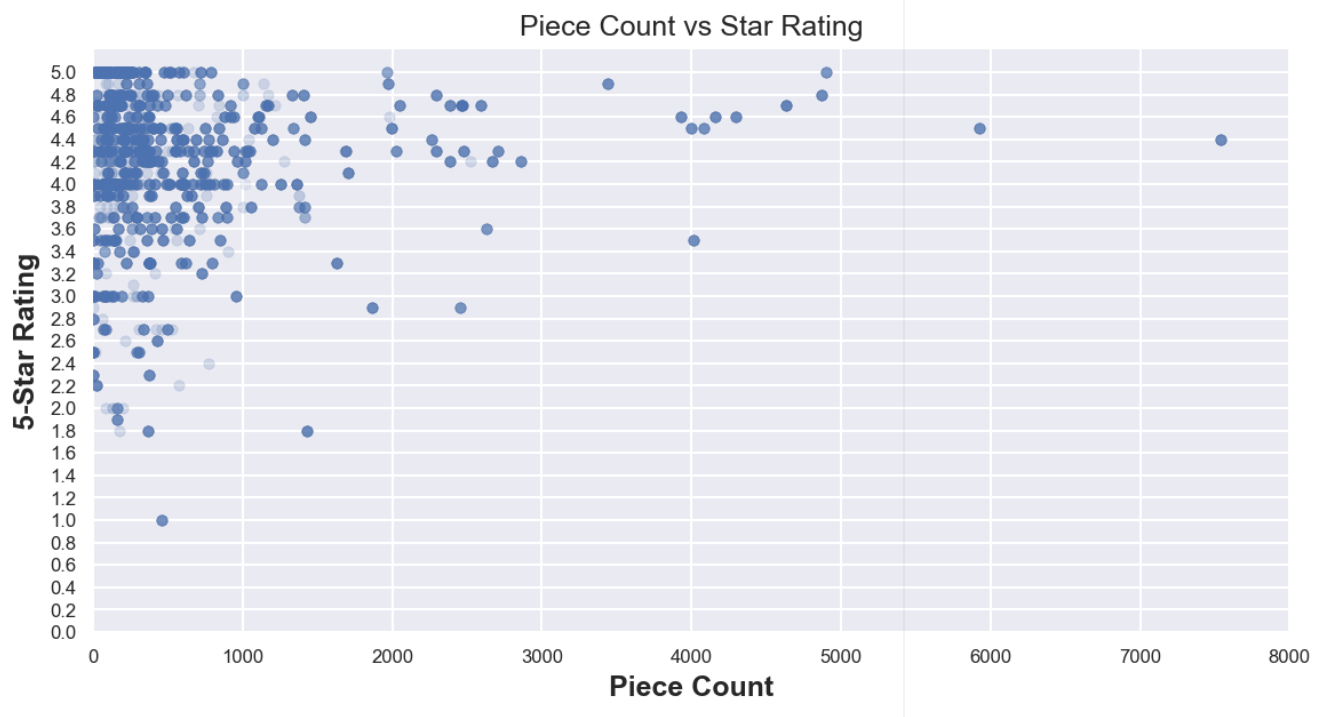
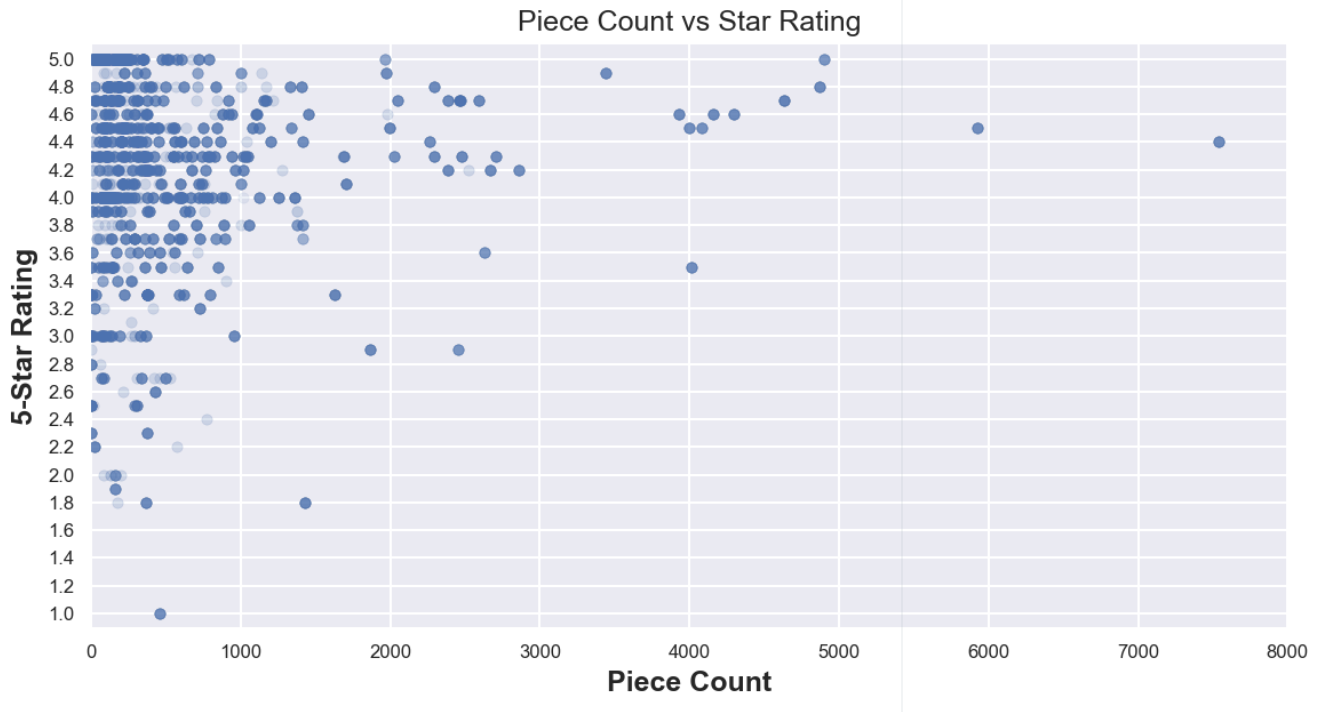
Graph info and Conclusion

diff --git a/main.py b/main.py
@@ -100,17 +100,19 @@ class mains():
     plt.title("Piece Count vs Star Rating")
     plt.xlabel('Piece Count')
     plt.xlim(0,8000)
-    plt.yticks(np.arange(0, 5.1, step=0.2))
+    plt.yticks(np.arange(1, 5.1, step=0.2))
+    plt.ylim(.9,5.1)
     plt.ylabel('5-Star Rating')
     plt.show()
 
     # %% codecell
     #Graph 4.5 - Piece Count (Under 1000) Vs. Star Rating
     data.plot(kind='scatter',x='piece_count',y='val_star_rating',figsize=(9,4.5), alpha = 0.1)
-    plt.title("Piece Count vs Star Rating")
+    plt.title("Piece Count vs Star Rating Under 1000 Pieces")
     plt.xlabel('Piece Count')
     plt.xlim(0,1000)
-    plt.yticks(np.arange(0, 5.1, step=0.2))
+    plt.ylim(.9,5.1)
+    plt.yticks(np.arange(1, 5.1, step=0.2))
     plt.ylabel('5-Star Rating')
     plt.show()
 

diff --git a/README.md b/README.md
@@ -15,24 +15,46 @@ The second dataset, found [here](https://www.kaggle.com/mterzolo/lego-sets), had
 #### Graph 1: Frequency of the Star Ratings
 ![Graph 1](./Images/Graph1.png)
 
+To start off we wanted to observe how many of each star rating we had. To prevent clutter, we decide to show it in intervals of 0.2 in a bar graph. Notable observations are that a vast majority of reviews are above a 4.0 meaning that reviewers are generally very generous with their ratings.
+
 #### Graph 2: Review Difficulty vs. Average Star Ratings
 ![Graph 2](./Images/Graph2.png)
 
 For this graph we decided to see how the review difficulty of a LEGO set influences its overall star rating. To properly illustrate this, we decided to create a box and whisker plot because it not only shows the median and quartiles, but it also shows if there are any outliers.
 
+Some notable observations are that while the Easy, Average, and Challenging columns are nearly identical, the Very Easy column seems to have a significantly lower 25th percentile and mean. Therefore we can conclude that the Very Easy difficulty generally has lower ratings.
+
+A quirk of the Box and Whisker plot is observable in the Very Challenging column. The Very Challenging column only has 5 star ratings and is therefore just a line.
+
 #### Graph 3: List Price Vs. Star Rating
 ![Graph 3](./Images/Graph3.png)
+
+Graph 3 compares the price of each LEGO set to it's price on the LEGO marketplace. While hard to interpret in the lower price region, there's a clear correlation that expensive sets ($600+) receive overall lower star ratings. This is most likely because when people spend more money they have higher expectations.
+
+To better view the cluster of points in the under $150 range we made a second scatter plot that only lists sets under $150.
+
 ![Graph 3.5](./Images/Graph3_5.png)
+
+Even though it is more spread out and easier to read, there is no clear correlation between list price and the star ratings for sets under $150. We believe this is because people's subconscious expectations treat these price points the same.
 
 #### Graph 4:
 ![Graph 4](./Images/Graph4.png)
+
+Graph 4 is a comparison between the number of pieces in a set with it's star rating. Since a vast majority of sets are under 1000 pieces the graph appears cluttered and its hard to discern if there's any useful information lurking in it. Therefore we decided to stretch the x axis by limited the piece count to 1000.
+
 ![Graph 4.5](./Images/Graph4_5.png)
+
+With this closer look we can now tell that there are far more 5 star ratings in sets with pieces under 200 pieces. Whether this is due to there being more sets under 200 pieces overall or if the average rating decreases is not clearly observable unfortunately.  Overall, it appears that the relationship between star ratings and the piece count is marginal at best.
 
 ## Machine Learning
 As stated in the introduction, we attempted to use a Gaussian Naive Bays classifier to predict the optimal features for a perfect LEGO set. Specifically, we looked at the recommended age, list price, difficulty, and theme of each set. The one thing we were not expecting, however, was to find that the data did not lend itself to classification at all.
 
 ![Machine Learning Results](./Images/MLResults.png)
 
-As you can see in the graph above, our training accuracy was only about 14%. At first, we thought we must have coded our model wrong, but after triple checking our code we were certain it was correct. We then tried training our model on many of the different features we had, removing and replacing the initial four listed above, but nothing helped. Upon further inspection, we realized that trying to predict an exact rating was extremely difficult, to the point the baseline accuracy was only 14.12%! 
+As you can see in the graph above, our training accuracy was only about 14%. At first, we thought we must have coded our model wrong, but after triple checking our code we were certain it was correct. We then tried training our model on many of the different features we had, removing and replacing the initial four listed above, but nothing helped. Upon further inspection, we realized that trying to predict an exact rating was extremely difficult, to the point the baseline accuracy was only 14.12%!
 
 ## Conclusion
+
+Although we weren't able to create the perfect machine learning model for LEGO star ratings, we label this project as an absolute success. Not only did we learn about the Gaussian Naive Bays classifier, but we also learned about the other classifier options when choosing which to use. We also learned about how to split our data and we got lots of practice graphing with MatPlotLib.
+
+Another lesson we learned is how to tell if a dataset is a good fit for a machine learning model. In order to create a predictor, we now know that there has to be a far clearer correlation between the independent variables and the variable we're trying to predict. Thanks to this project, we will not make this mistake again. Overall this was a great learning experience and a fun way to end the Computational Analysis of Big Data class.
